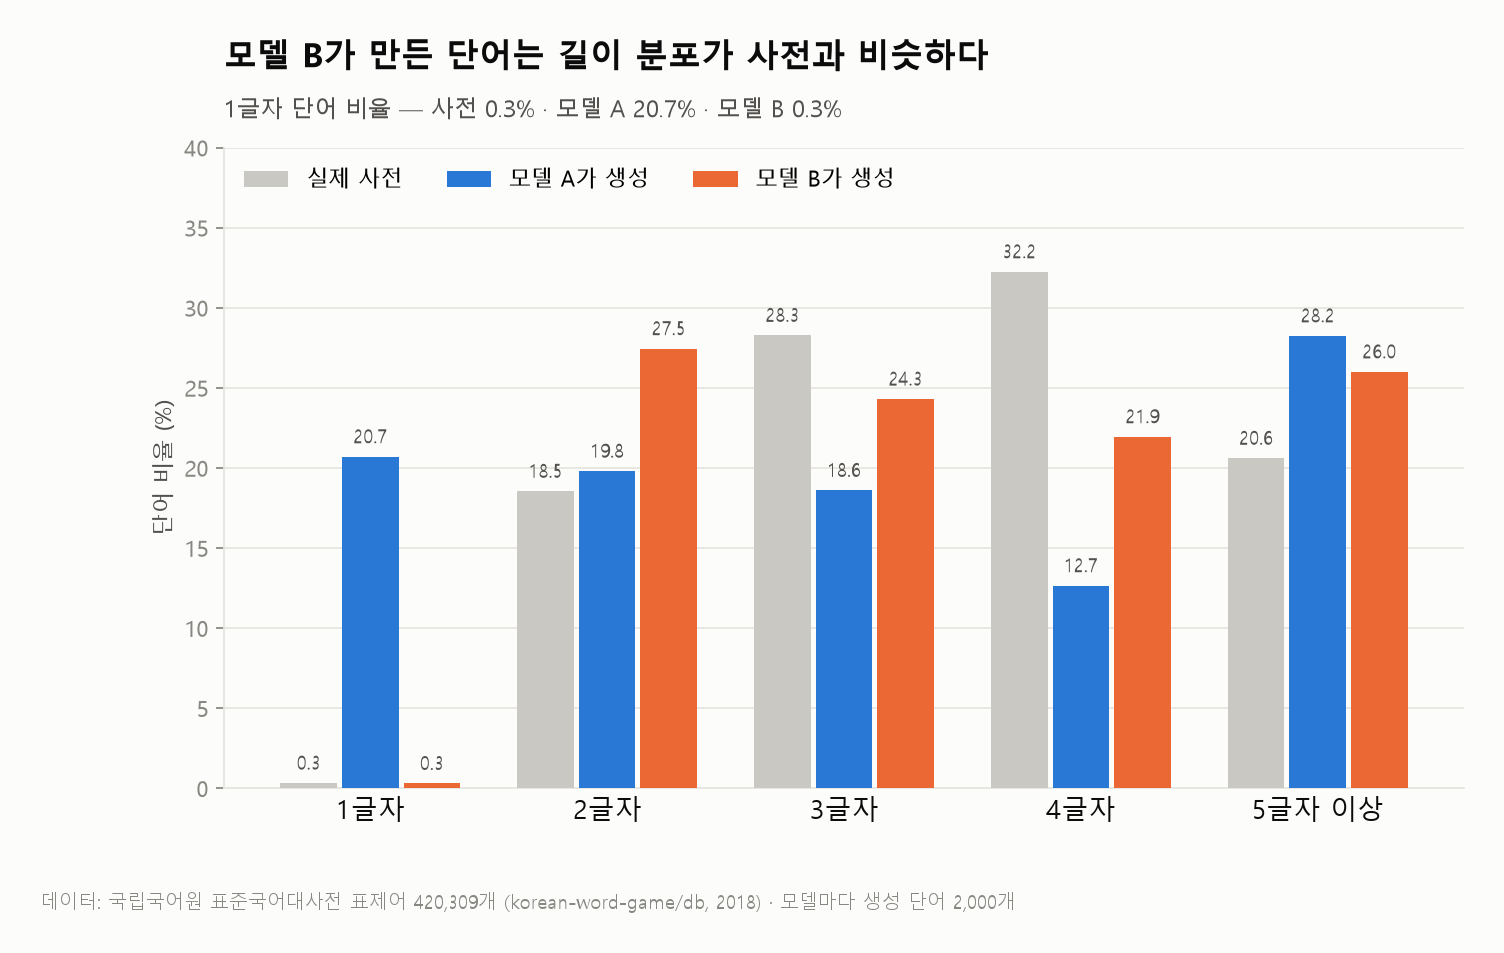
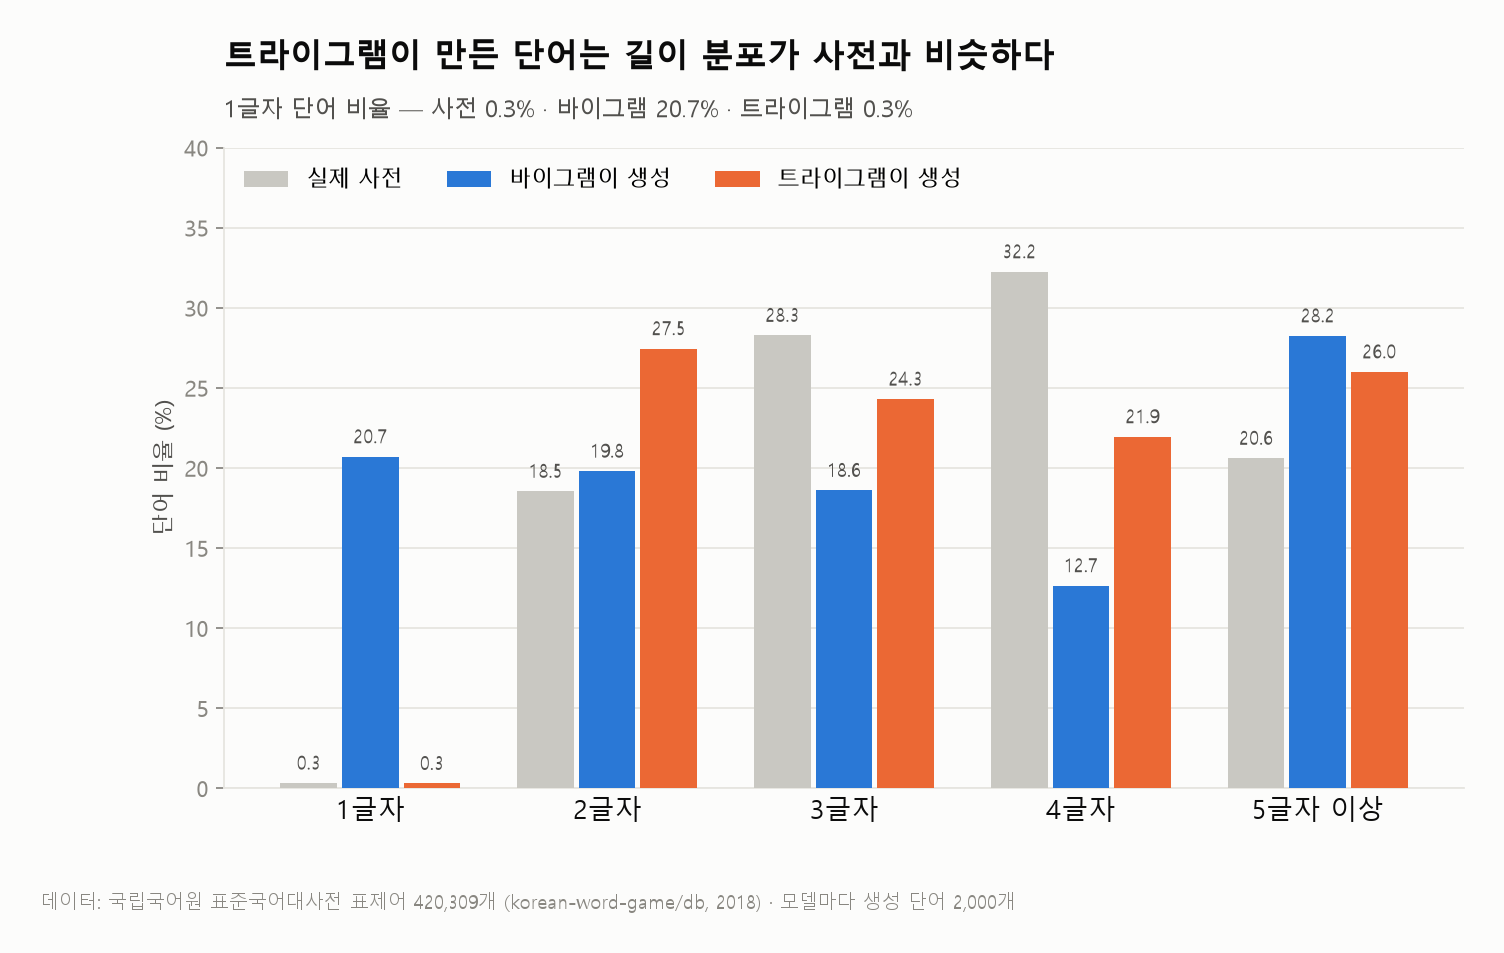
Add bigram vs trigram word generation charts

Changed region(s): [[0.1562, 0.0304, 0.7188, 0.1217], [0.3438, 0.1522, 0.625, 0.213]]

diff --git a/docs/part1/word-generation.md b/docs/part1/word-generation.md
@@ -7,18 +7,18 @@ permalink: /part1/word-generation/
 
 # 통계로 만든 단어는 얼마나 한국어다운가
 
-같은 사전 통계를 바탕으로 한 두 단어 생성 모델(A, B)이 각각 2,000개씩 만든 단어를 실제 사전과 비교했습니다.
+같은 사전 데이터로 만든 바이그램·트라이그램 모델이 각각 2,000개씩 만든 단어를 실제 사전과 비교했습니다.
 
 <small>데이터: 국립국어원 표준국어대사전 표제어 420,309개 (<a href="https://github.com/korean-word-game/db">korean-word-game/db</a>, 2018년 수집)</small>
 
 ---
 
-![모델별 생성 단어의 길이 분포와 사전 비교]({{ '/assets/images/part1/word_generation_length.png' | relative_url }})
+![생성 단어의 길이 분포와 사전 비교]({{ '/assets/images/part1/word_generation_length.png' | relative_url }})
 
-모델 A는 1글자 단어를 20.7%나 만들지만, 모델 B는 0.3%로 실제 사전과 같고 전체 길이 분포도 사전에 더 가깝습니다.
+바이그램은 1글자 단어를 20.7%나 만들지만, 트라이그램은 0.3%로 실제 사전과 같고 전체 길이 분포도 사전에 더 가깝습니다.
 
 ---
 
-![모델별 생성 단어 중 사전에 있는 단어의 비율]({{ '/assets/images/part1/word_generation_realword.png' | relative_url }})
+![생성 단어 중 사전에 있는 단어의 비율]({{ '/assets/images/part1/word_generation_realword.png' | relative_url }})
 
-모델 B는 3·4글자에서 사전에 있는 단어를 훨씬 많이 만들고, 2,000개 중 서로 다른 진짜 단어도 633개에서 1,135개로 늘었습니다.
+트라이그램은 3·4글자에서 사전에 있는 단어를 훨씬 많이 만들고, 2,000개 중 서로 다른 진짜 단어도 633개에서 1,135개로 늘었습니다.
